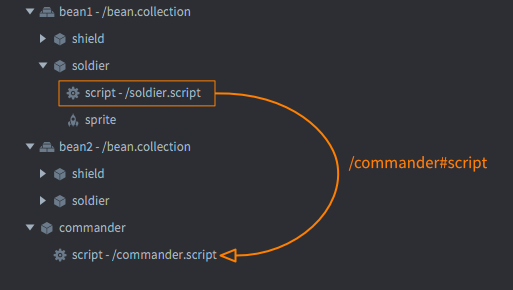
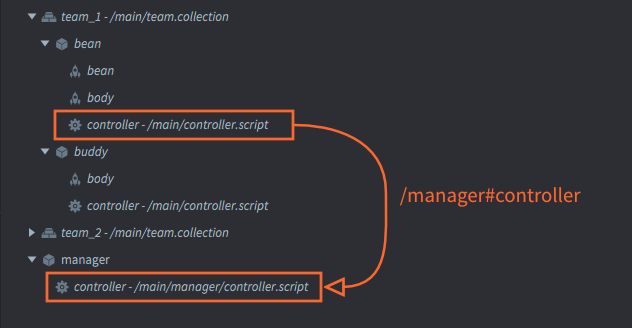
Complete addressing manual. Requires reworked message passing manual.

Changed region(s): [[0.0312, 0.1862, 0.9669, 0.931], [0.0312, 0.031, 0.3743, 0.0931], [0.0624, 0.0931, 0.2183, 0.1552]]

diff --git a/docs/en/manuals/addressing.md b/docs/en/manuals/addressing.md
@@ -5,15 +5,28 @@ brief: This manual explains how Defold has solved the problem of addressing.
 
 # Addressing
 
-In a running game, every object and component must be possible to move, scale, animate, delete and manipulate in any other way. In order to do that you are able to uniquely address anything through the Defold addressing mechanism. This manual describe how it works.
+Code that controls a running game must be able to reach every object and component in order to move, scale, animate, delete and manipulate what the player sees and hears. Defold's addressing mechanism makes this possible.
 
 ## Identifiers
 
-Let's look at a very simple example. Suppose you have a game object with a sprite and you want to disable the sprite when the game starts (so you can make it appear later). The setup in the editor would look something like this:
+Defold uses addresses (or URLs, but let's ignore that for now) to refer to game objects and components. These addresses consist of identifiers. The following are all examples of how Defold uses addresses. Through this manual we are going to examine in detail how they work:
+
+```lua
+local id = factory.create("#enemy_factory")
+label.set_text("my_gameobject#my_label", "Hello World!")
+
+local pos = go.get_position("my_gameobject")
+go.set_position(pos, "/level/stuff/other_gameobject")
+
+msg.post("#", "hello_there")
+local id = go.get_id(".")
+```
+
+Let's start with a very simple example. Suppose that you have a game object with a single sprite component. You also have a script component to control the game object. The setup in the editor would look something like this:
 
 ![bean in editor](images/addressing/bean_editor.png)
 
-You then put the following code in "controller.script":
+Now you want to disable the sprite when the game starts, so you can make it appear later. That is easily done by putting the following code in "controller.script":
 
 ```lua
 function init(self)
@@ -22,116 +35,195 @@ end
 ```
 1. Don't worry if you're puzzled by the '#' character. We'll get to that soon.
 
-When you create a new game object or component in the editor, a unique *Id* property is automatically set. Game objects automatically get an id called "go" with an enumerator ("go2", "go3" etc) and components get an id corresponding to the component type ("sprite", "sprite2" etc). Each identifier can be modified and you are encouraged to pick good, descriptive names for your game objects and components.
-
-For the above example, the game object has been given the id "bean", its sprite component is named "body" and the script component that controls the character is called "controller".
-
-Schematically, the setup looks like this:
+This will work as expected. When the game starts, the script component *addresses* the sprite component by its identifier "body" and uses that address to send it a *message* with the "disable". The effect of this special engine message is that the sprite component hides the sprite graphics. Schematically, the setup looks like this:
 
 ![bean](images/addressing/bean.png)
 
-The script component *addresses* the sprite component by its identifier and sends it a message "disable".
+The identifiers in the setup are arbitrary. Here we have chosen to give the game object the identifyer "bean", its sprite component has been named "body", and the script component that controls the character has been named "controller".
 
-Let's now add another sprite component:
+::: sidenote
+If you don't choose a name, the editor will. Whenever you create a new game object or component in the editor, a unique *Id* property is automatically set.
+
+- Game objects automatically get an id called "go" with an enumerator ("go2", "go3" etc).
+- Components get an id corresponding to the component type ("sprite", "sprite2" etc).
+
+You can stick to these automatically assigned names if you want to, but we encourage you to change the identifiers into good, descriptive names.
+:::
+
+Now, let's add another sprite component and give the bean a shield:
 
 ![bean](images/addressing/bean_shield_editor.png)
 
-You *must* give the new shield sprite a unique identifier. If you would call it "body" the script code would be ambiquous as to which sprite it should send the "disable" message.
+The new component must be uniquely identified within the game object. If you would give it the name "body" the script code would be ambiquous as to which sprite it should send the "disable" message. Therefore we pick the unique (and descriptive) identifier "shield". Now we can enable and disable the "body" and "shield" sprites at will.
 
 ![bean](images/addressing/bean_shield.png)
 
+::: sidenote
+If you do try to use an identifier more than once, the editor will signal an error so this is never a problem in practice:
 
-## Identifiers
+![bean](images/addressing/name_collision.png)
+:::
 
+Now, let's look at what happens if you add more game objects. Suppose you want to pair two "beans" into a small team. You decide to call one of the bean game objects "bean" and the other one "buddy". Furthermore, when "bean" has been idle for a while, it should tell "buddy" to start dancing. That is done by sending a custom message called "dance" from the "controller" script component in "bean" to the "controller" script in "buddy":
 
-Suppose you have created a collection file containing two separate game objects. You have given the game objects the identifiers "soldier" and "shield". Each game object also contains a single sprite component. The sprites are both named "sprite". There is also a script component in the "shield" game object that you have named "controller".
+![bean](images/addressing/bean_buddy.png)
 
-Let's look a bit closer at the "shield" game object:
+::: sidenote
+There are two separate components named "controller", one in each game object but this is perfectly legal since each game object creates a new naming context.
+:::
 
-![shield flip](images/addressing/shield_script.png)
+Since the addressee of the message is outside the game object sending the message ("bean"), the code needs to specify which "controller" should receive the message. It needs to specify both the target game object id as well as the component id. The full address to the component becomes `"buddy#controller"` and this address consists of two separate parts.
 
-First, let's see how you can move the whole game object 10 pixels to the left:
+- First come the identity of the target game object ("buddy"),
+- then follows the game object/component separator character ("#"),
+- and finally you write the identity of the target component ("controller").
 
-```lua
-local pos = go.get_position()
-pos.x = pos.x + 10
-go.set_position(pos)
-```
+Going back to the previous example with a single game object we see that by leaving out the game object identifier part of the target address, the code can address components in the *current game object*.
 
-Notice that there are no address identifiers in this code at all. Defold knows that the script is running in a component inside the "shield" game object. By omitting an address, the current game object is implied. The above code snippet is equivalent to the following where the game object id is explicitly specified:
+For example, `"#body"` denotes the address to the component "body" in the current game object. This is very useful because this code will work in *any* game object, as long as there is a "body" component present. 
 
-```lua
-local pos = go.get_position("shield")
-pos.x = position.x + 10
-go.set_position(pos, "shield")
-```
+## Collections
 
-Now suppose you want to write code in the script that disables the shield sprite only. The script and the sprite lives in the same game object so the game object id "shield" is implied:
+Collections makes it possible to create groups, or hierarchies, of game objects and reuse them in a controlled way. You use collection files as templates (or "prototypes" or "prefabs") in the editor when you populate your game with content.
 
-```lua
-msg.post("#sprite", "disable")
-```
+Suppose that you want to create a great number of bean/buddy teams. A good way to do that is to create a template in a new *collection file* (name it "team.collection"). Build the team game objects in the collection file and save it. Then put an instance of that collection file's contents in your main bootstrap collection and give the instance an identifier (name it "team_1"):
 
-Notice the initial character '#' before the component id. The hash sign is used to separate the game object id from the component id. Since you don't have a game object id before the hash sign, it starts the address string.
+![bean](images/addressing/team_editor.png)
 
-If the script wants to disable the sprite in the "soldier" game object, it is no longer possible to leave out the game object id:
+With this structure, the "bean" game object can still refer to the "controller" component in "buddy" by the address `"buddy#controller"`.
 
-```lua
-msg.post("soldier#sprite", "disable")
-```
+![bean](images/addressing/collection_team.png)
 
-Without the "soldier" part in the address, the runtime cannot separate the component "sprite" in the "shield" game object from the component "sprite" in the "soldier" game object. Defold combines the identity of the game object with that of the component which is why you can have two components named "sprite" without violating the requirement for identity uniqueness.
+And if you add a second instance of "team.collection" (name it "team_2"), the code running inside the "team_2" script components will work just as well. The "bean" game object instance from collection "team_2" can still address the "controller" component in "buddy" by the address `"buddy#controller"`.
 
-![sprite identifiers](images/addressing/sprites.png)
+![bean](images/addressing/teams_editor.png)
 
-## Collections and game object ids
+## Relative addressing
 
-Suppose now that you need more than one bean soldiers in your game. You don't want to duplicate the "soldier" and "shield" game objects, so instead you create a new collection called "bean.collection". You put the two game objects in the collection and then, in "main.collection" you add two copies of "bean.collection":
-
-![collections](images/addressing/collections.png)
-
-You also add a game object called "commander" containing a script. The idea is that the "commander" script should be responsible for giving orders to the bean soldiers. In order for this to work, the "commander" script needs to be able to send messages to each bean.
-
-Within the context of "bean.collection", each game object still has the ids "soldier" and "shield". However, since we added several instances of this collection, each instance defines a new namespace with a unique id (in this case "bean1" and "bean2"). When the game data is compiled, the collection hierarchy is flattened and identities are combined down the collection hierarchy to each game object and they are given their full ids:
-
-- /bean1/soldier
-- /bean1/shield
-- /bean2/soldier
-- /bean2/shield
-- /commander
-
-## Absolute and relative ids
-
-Addressing works a bit like directory paths. A script in a game object can reference any object at the same namespace level and deeper. A script that is attached to the "soldier" game object instances can address its corresponding "shield" game object by the id that is local to "bean.collection":
-
-```lua
-msg.post("shield#sprite", "disable")
-```
+The address `"buddy#controller"` works for the game objects in both collections because it is a *relative* address. Each of the collections "team_1" and "team_2" creates a new naming context, or "namespace" if you will. Defold avoids naming collisions by taking the naming context a collection creates into consideration for addressing:
 
 ![relative id](images/addressing/relative_same.png)
 
-If you want the "commander" script to send messages to the two "soldier" script instances, you you must specify which one to address. You do that by providing the combined ids:
+- Within the naming context "team_1", the game objects "bean" and "buddy" are uniquely identified.
+- Similarly, within the naming context "team_2", the game objects "bean" and "buddy" are also uniquely identified.
+
+Relative addressing works by automatically prepending the current naming context when resolving a target address. This is again immensely useful and powerful because you can create groups of game objects with code and reuse those efficiently throughout the game.
+
+Shorthands
+: Defold provides two useful relative address shorthands:
+
+  `.`
+  : Shorthand resolving to the current game object.
+  
+  `#`
+  : Shorthand resolving to the current component.
+
+  For example:
+  
+  ```lua
+   -- Let this game object acquire input focus
+   msg.post(".", "acquire_input_focus")
+  ```
+  
+  ```lua
+   -- Post "reset" to the current script
+   msg.post("#", "reset")
+  ```
+
+## Game object full identifiers
+
+To correctly understand the naming mechanism, let's look at what happens when you build and run the project:
+
+1. The editor reads the bootstrap collection ("main.collection") and all its content (game objects and other collections).
+2. The compiler creates instances for all game objects, flattening the collection hierarchy.
+3. Identifiers are built as "paths" down the collection hierarchy, assigning each game object a unique identifier.
+
+For our example above, the game will run with the following 4 game objects:
+
+- /team_1/bean
+- /team_1/buddy
+- /team_2/bean
+- /team_2/buddy
+
+::: sidenote
+Identities are stored as hashed values. The runtime also stores the hashed value of each collection identity and uses a rolling hash algorithm to resolve the full address.
+:::
+
+In runtime, the collection grouping do not exist. There is no way to find out what collection a specific game object belonged to before compilation. Nor is it possible to manipulate all the objects in a collection at once. If you need to do such operations, you can easily do the tracking yourself in code. Each object's identifier is static, it is guaranteed to stay fixed throughout the object's lifetime. This means that you can safely store the identity of an object and use it later.
+
+## Absolute addressing
+
+It is possible to use the full identifiers described above when addressing. In most cases relative addressing is preferred since it allows for content reuse, but there are cases where absolutely addressing becomes necessary.
+
+For example, suppose that you want an AI manager that tracks the state of each bean object. You want beans to report to their active status to the manager, and the manager makes tactical decisions and gives orders to the beans based on their status. It would make perfect sense in this case to create a single manager game object with a script component and place that alongside the team collections in the bootstrap collection.
+
+![manager object](images/addressing/manager_editor.png)
+
+Each bean is then responsible for sending status messages to the manager: "contact" if it spots an enemy or "ouch!" if it is hit and takes damage. For this to work, the bean controller scrips use absolute addressing to send messages to the component "controller" in "manager".
+
+Any address that starts with a '/' will be resolved from the root of the game world. This corresponds to the root of the *bootstrap collection* that is loaded on game start.
+
+The absolute address of the manager script is `"/manager#controller"` and this absolute address will resolve to the right component no matter where it is used.
+
+![teams and manager](images/addressing/teams_manager.png)
+
+![absolute addressing](images/addressing/absolute.png)
+
+## URLs
+
+To complete the picture, let's look at the full format of Defold addresses: the URL.
+
+An URL is an object, usually written as specially formatted strings. A generic URL consists of three parts:
+
+`[socket:][path][#fragment]`
+
+socket
+: Identifies the game world of the target. This is important when working with [Collection Proxies](/manuals/collection-proxy) and is then used to identify the _dynamically loaded collection_.
+
+path
+: This part of the URL usually contains the full id of the target game object.
+
+fragment
+: The identity of the target component within the specified game object.
+
+As we have seen above, you can leave out some, or most of this information in the majority of cases. You almost never need to specify the socket, and you often, but not always, have to specify the path. In those cases when you do need to address things in another game world then you need to specify the socket part of the URL. For instance, the full URL string for the "controller" script in the "manager" game object above is:
+
+`"main:/manager#controller"`
+
+and the buddy controller in team_2 is:
+
+`"main:/team_2/buddy#controller"`
+
+We can send messages to them:
 
 ```lua
-msg.post("bean1/soldier#script", "be_alert")
-msg.post("bean2/soldier#script", "stay_frosty")
+-- Send "hello" to the manager script and team buddy bean
+msg.post("main:/manager#controller", "hello_manager")
+msg.post("main:/team_2/buddy#controller", "hello_buddy")
 ```
 
-![relative id](images/addressing/relative.png)
+## Constructing URL objects
 
-But what if you want the soldier in "bean1" to send a message to the "commander" script? The "soldier" object and "commander" are not in the same namespace. In this case you must provide an *absolute* address, one that starts from the root:
+URL objects can also be constructed programmatically, like this:
 
 ```lua
-msg.post("/commander#script", "i_need_medic") -- Note the leading '/'!
+-- Construct URL object from a string:
+local my_url = msg.url("main:/manager#controller")
+print(my_url) --> url: [main:/manager#controller]
+print(my_url.socket) --> 786443 (internal numeric value)
+print(my_url.path) --> hash: [/manager]
+print(my_url.fragment) --> hash: [controller]
+
+-- Construct URL from parameters:
+local my_url = msg.url("main", "/manager", "controller")
+print(my_url) --> url: [main:/manager#controller]
+
+-- Build from empty URL object:
+local my_url = msg.url()
+my_url.socket = "main" -- specify by valid name
+my_url.path = hash("/manager") -- specify as string or hash
+my_url.fragment = "controller" -- specify as string or hash
+
+-- Post to target specified by URL
+msg.post(my_url, "hello_manager!")
 ```
-
-If you would have provided the address `commander#script` *without* the leading slash, that would have resolved to `/bean1/commander#script`.
-
-![absolute id](images/addressing/absolute.png)
-
-Any address that starts with a '/' will be resolved from the root namespace of the game world. This corresponds to the root of the *bootstrap collection* that is loaded on game start.
-
-## Identities are static
-
-We have seen how every object in Defold can uniquely addressed any other object through an absolute or relative address. These addresses are set at *compile time* and stays fixed throughout the object’s lifetime. There is *no way* an object can change its identity. This means that if you save the address to an object that address will stay valid for as long as the object exists; you never have to worry about updating object references that you store.
-
